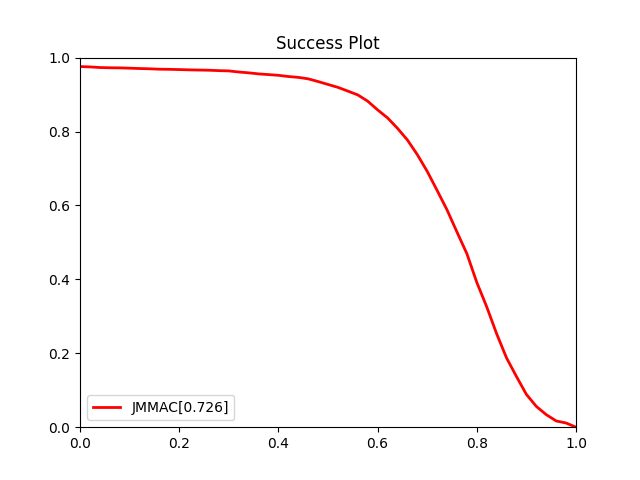
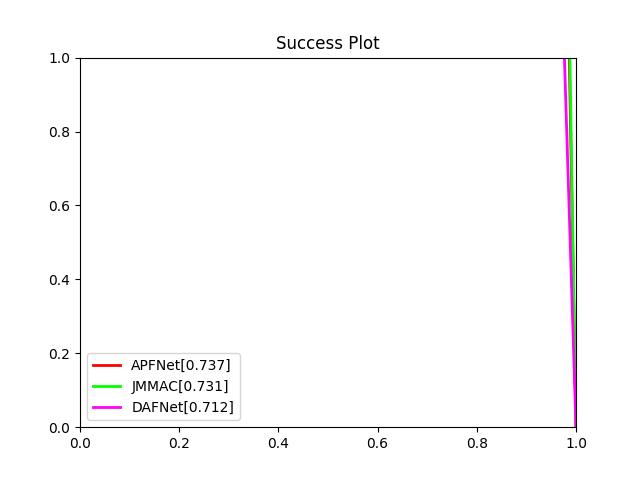
fixed error in GTOT

diff --git a/metrics/metrics.py b/metrics/metrics.py
@@ -81,6 +81,90 @@ class MSR(Metric):
 
 
 
+class MPR_GTOT(Metric):
+    """
+    NOTE
+    ---------
+    Maximum Precision Rate (MPR). PR is the percentage of frames whose output location 
+    is within the given threshold distance of ground truth. That is to say, it computes 
+    the average Euclidean distance between the center locations of the tracked target 
+    and the manually labeled ground-truth positions of all the frames. Although our 
+    alignment between two modalities is highly accurate, there still exist small alignment 
+    errors. Therefore, we use maximum precision rate (MPR) instead of PR in this paper. 
+    Specifically, for each frame, we compute the above Euclidean distance on both RGB and 
+    thermal modalities, and adopt the smaller distance to compute the precision. 
+    We set the threshold to be 20 pixels to obtain the representative MPR.
+    """
+    def __init__(self, thr=np.linspace(0, 25, 51)) -> None:
+        super().__init__()
+        self.thr = thr
+
+
+    def __call__(self, dataset:BaseRGBTDataet, result:TrackerResult, seqs:list):
+        pr=[]
+        all_frame_num = 0
+        for seq_name in seqs:
+            gt_v = dataset[seq_name]['visible']
+            gt_i = dataset[seq_name]['infrared']
+            serial = result[seq_name]
+            res_v = np.array(serial_process(CLE, serial, gt_v))
+            res_i = np.array(serial_process(CLE, serial, gt_i))
+            res = np.minimum(res_v, res_i)
+
+            pr_cell = []
+            all_frame_num+=len(res)
+            for i in self.thr:
+                pr_cell.append(np.sum(res<i))
+            pr.append(pr_cell)
+
+        pr = np.array(pr)
+        pr_val = pr[:, 10].sum()/all_frame_num
+        return pr_val, pr
+
+
+
+class MSR_GTOT(Metric):
+    """
+    NOTE
+    ---------
+    Maximum Success Rate (MSR). SR is the ratio of the number of successful frames whose 
+    overlap is larger than a threshold. Similar to MPR, we also define maximum success 
+    rate (MSR) to measure the tracker results. By varying the threshold, the MSR plot can 
+    be obtained, and we employ the area under curve of MSR plot to define the representative MSR.
+    """
+    def __init__(self, thr=np.linspace(0, 1, 21)) -> None:
+        super().__init__()
+        self.thr = thr
+
+
+    def __call__(self, dataset:BaseRGBTDataet, result:TrackerResult, seqs:list):
+    
+        sr=[]
+        all_frame_num=0
+        for seq_name in seqs:
+            gt_v = dataset[seq_name]['visible']
+            gt_i = dataset[seq_name]['infrared']
+            serial = result[seq_name]
+            res_v = np.array(serial_process(IoU, serial, gt_v))
+            res_i = np.array(serial_process(IoU, serial, gt_i))
+            res = np.maximum(res_v, res_i)
+
+            sr_cell = []
+            all_frame_num+=len(res)
+            for i in self.thr:
+                sr_cell.append(np.sum(res>i))
+            sr.append(sr_cell)
+
+        sr = np.array(sr)
+        sr_val = 0
+        a = (sr[:, 1:]*self.thr[1]).sum()
+        b = (sr[:, :-1]*self.thr[1]).sum()
+        sr_val += (a+b)/2.
+        sr_val = sr_val/all_frame_num
+        return sr_val, sr
+
+
+
 class PR(Metric):
     """
     Precision Rate.

diff --git a/utils.py b/utils.py
@@ -1,9 +1,35 @@
 # Do not edit this file.
 
 import numpy as np
+global _strict
+_strict = True
+
+
+def RGBT_start():
+    """
+    NOTE !!!
+    ---
+    对于某些数据集的原始toolkit，并没有严格考虑边界框类型转换时的宽高问题，比如GTOT。
+    导致不同数据集之间的bbox转换不统一，因此在测试GTOT时，需要先调用该函数，修正这一误差。\\
+    For the original toolkit of some datasets, it does not strictly consider the 
+    width and height when converting the bounding box type, such as GTOT.
+    This leads to inconsistent bbox conversion between different datasets, so when 
+    testing GTOT, you need to call this function first to correct this error.
+    """
+    global _strict
+    _strict = False
+
+def RGBT_end():
+    """
+    与RGBT_start搭配使用，当你只测试GTOT时，可以不调用。
+    """
+    global _strict
+    _strict = True
+
 
 def load_text(path, dtype=np.float32):
     return load_text_numpy(path, delimiter=[',', ' ', '\t'], dtype=dtype)
+
 
 def load_text_numpy(path, delimiter=' ', dtype=np.float32):
     if isinstance(delimiter, (tuple, list)):
@@ -23,20 +49,41 @@ def load_text_numpy(path, delimiter=' ', dtype=np.float32):
 def ltwh_2_ltrb(rect):
     return [rect[0], rect[1], rect[2]+rect[0]-1, rect[3]+rect[1]-1]
 
+
 def ltrb_2_ltwh(rect):
-    return [rect[0], rect[1], rect[2]-rect[0]+1, rect[3]-rect[1]+1]
+    if _strict:
+        return [rect[0], rect[1], rect[2]-rect[0]+1, rect[3]-rect[1]+1]
+    else:
+        return [rect[0], rect[1], rect[2]-rect[0], rect[3]-rect[1]]
+
 
 def xywh_2_ltrb(rect):
     """
     (cx, cy, w, h) -> (left, top, right, bottom)
     """
-    return [rect[0]-rect[2]/2, rect[1]-rect[3]/2, rect[0]+rect[2]/2, rect[1]+rect[3]/2]
+    delta_w = (rect[2]-1)/2.
+    delta_h = (rect[3]-1)/2.
+    return [rect[0]-delta_w, rect[1]-delta_h, rect[0]+delta_w, rect[1]+delta_h]
+
+
+def xywh_2_ltwh(rect):
+    """
+    (cx, cy, w, h) -> (left, top, width, height)
+    """
+    delta_w = (rect[2]-1)/2.
+    delta_h = (rect[3]-1)/2.
+    return [rect[0]-delta_w, rect[1]-delta_h, rect[2], rect[3]]
+
 
 def corner_2_ltrb(rect):
     return [rect[0], rect[1], rect[-2-2], rect[-1-2]]
 
+
 def corner_2_ltwh(rect):
-    return [rect[0], rect[1], rect[2]-rect[0]+1, rect[5]-rect[1]+1]
+    if _strict:
+        return [rect[0], rect[1], rect[2]-rect[0]+1, rect[5]-rect[1]+1]
+    else:
+        return [rect[0], rect[1], rect[2]-rect[0], rect[5]-rect[1]]
 
 
 def bbox_type_trans(bbox_type_src, bbox_type_new):
@@ -75,8 +122,12 @@ def CLE(rect1, rect2, need_normalize=False):
     Returns:
         center location error
     """
-    cp1 = [(rect1[2]-1)/2.+rect1[0], (rect1[3]-1)/2.+rect1[1]]
-    cp2 = [(rect2[2]-1)/2.+rect2[0], (rect2[3]-1)/2.+rect2[1]]
+    if _strict:
+        cp1 = [(rect1[2]-1)/2.+rect1[0], (rect1[3]-1)/2.+rect1[1]]
+        cp2 = [(rect2[2]-1)/2.+rect2[0], (rect2[3]-1)/2.+rect2[1]]
+    else:
+        cp1 = [rect1[2]/2.+rect1[0], rect1[3]/2.+rect1[1]]
+        cp2 = [rect2[2]/2.+rect2[0], rect2[3]/2.+rect2[1]]
     if need_normalize:
         cp1 = normalize(cp1[0], cp1[1], rect2[2], rect2[3])
         cp2 = normalize(cp2[0], cp2[1], rect2[2], rect2[3])

diff --git a/eval_gtot.py b/eval_gtot.py
@@ -1,31 +1,44 @@
 from dataset import GTOT
+from utils import RGBT_start,RGBT_end
 
+RGBT_start()
 gtot = GTOT()
 
 # Register your tracker
 gtot(
-    tracker_name="JMMAC",       # Result in paper: 90.1, 73.2
+    tracker_name="JMMAC",       # Result in paper: 90.2, 73.2
     result_path="./result/GTOT/JMMAC", 
     bbox_type="ltwh",
     prefix="JMMAC_")
 
 gtot(
-    tracker_name="APFNet",       # Result in paper: 90.5, 73.7
+    tracker_name="APFNet",      # Result in paper: 90.5, 73.7
     result_path="./result/GTOT/APFNet", 
     bbox_type="corner",
     prefix="")
+
+gtot(
+    tracker_name="DAFNet",      # Result in paper: 89.1, 71.2
+    result_path="./result/GTOT/DAFNet", 
+    bbox_type="corner",
+    prefix="DAFNet-234_")
 
 # Evaluate multiple trackers
 pr_dict = gtot.MPR()
 print(pr_dict["JMMAC"][0])
 print(pr_dict["APFNet"][0])
+print(pr_dict["DAFNet"][0])
 
 # Evaluate single tracker
 jmmac_sr,_ = gtot.MSR("JMMAC")
-print("JMMAC SR:\t", jmmac_sr)
+print("JMMAC MSR:\t", jmmac_sr)
 apf_sr,_ = gtot.MSR("APFNet")
-print("APFNet SR:\t", apf_sr)
+print("APFNet MSR:\t", apf_sr)
+daf_sr,_ = gtot.MSR("DAFNet")
+print("DAFNet MSR:\t", daf_sr)
 
 # Draw a curve plot
 gtot.draw_plot(metric_fun=gtot.MPR)
 gtot.draw_plot(metric_fun=gtot.MSR)
+
+RGBT_end()

diff --git a/dataset/basedataset.py b/dataset/basedataset.py
@@ -17,7 +17,7 @@ def initial_gt_file(gt_path:str, seqs:list, v_name:str, i_name:str, bbox_trans):
 def initial_result_file(path:str, seqs:list, bbox_trans, prefix=''):
     res = {}
     for seq_name in seqs:
-        serial = load_text(os.path.join(path, prefix+seq_name+'.txt'))
+        serial = load_text(os.path.join(path, prefix+seq_name+'.txt')).round(0)
         res[seq_name] = serial_process(bbox_trans, serial)
     return res
 
@@ -109,7 +109,7 @@ class BaseRGBTDataet:
         raise ImportError
 
 
-    def draw_attributeRadar(self, metric_fun, filename):
+    def draw_attributeRadar(self, metric_fun, filename, **argdict):
         """
         Draw a radar chart with all challenge attributes.
         """
@@ -119,7 +119,7 @@ class BaseRGBTDataet:
             for i,(k,v) in enumerate(dict.items()):
                 result[i][1].append(v[0])
 
-        draw_radar(result=result, attrs=self.get_attr_list(), fn=filename)
+        draw_radar(result=result, attrs=self.get_attr_list(), fn=filename, **argdict)
 
 
     def draw_plot(self, axis, metric_fun, filename, y_max:float, y_min:float, title=None, 

diff --git a/dataset/gtot_dataset.py b/dataset/gtot_dataset.py
@@ -2,7 +2,7 @@
 from dataset.basedataset import BaseRGBTDataet
 from utils import *
 import os
-from metrics import MPR,MSR
+from metrics import MPR_GTOT,MSR_GTOT
 
 class GTOT(BaseRGBTDataet):
     """
@@ -19,8 +19,8 @@ class GTOT(BaseRGBTDataet):
         # super().__init__(gt_path=gt_path, seqs=seqs, bbox_type='ltwh', v_name='init.txt', i_name='init.txt')
 
         self.name = 'GTOT'
-        self.MPR_fun = MPR(thr=np.linspace(0, 25, 51))
-        self.MSR_fun = MSR(thr=np.linspace(0, 1, 51))
+        self.MPR_fun = MPR_GTOT()
+        self.MSR_fun = MSR_GTOT()
 
         # Challenge attributes
         self._attr_list = (None)
@@ -53,8 +53,7 @@ class GTOT(BaseRGBTDataet):
         else:
             res = {}
             for k,v in self.trackers.items():
-                res[k] = list(self.MPR_fun(self, v, seqs))
-                res[k][0] = res[k][1].mean(axis=0)[10]
+                res[k] = self.MPR_fun(self, v, seqs)
             return res
 
 

diff --git a/dataset/rgbt234_dataset.py b/dataset/rgbt234_dataset.py
@@ -1,5 +1,5 @@
 
-from dataset.basedataset import BaseRGBTDataet
+from dataset.basedataset import BaseRGBTDataet, TrackerResult
 from utils import *
 import os
 from metrics import MPR,MSR
@@ -33,6 +33,12 @@ class RGBT234(BaseRGBTDataet):
         self.TC = self.choose_serial_by_att("TC")
         self.PO = self.choose_serial_by_att("PO")
         self.SC = self.choose_serial_by_att("SC")
+
+    def __call__(self, tracker_name, result_path: str, seqs=None, prefix='', bbox_type='ltwh') -> TrackerResult:
+        RGBT_start()
+        res = super().__call__(tracker_name, result_path, seqs, prefix, bbox_type)
+        RGBT_end()
+        return res
 
     def get_attr_list(self):
         return self._attr_list

diff --git a/dataset/rgbt210_dataset.py b/dataset/rgbt210_dataset.py
@@ -35,6 +35,12 @@ class RGBT210(BaseRGBTDataet):
         self.PO = self.choose_serial_by_att("PO")
         self.SC = self.choose_serial_by_att("SC")
 
+    def __call__(self, tracker_name, result_path: str, seqs=None, prefix='', bbox_type='ltwh'):
+        RGBT_start()
+        res = super().__call__(tracker_name, result_path, seqs, prefix, bbox_type)
+        RGBT_end()
+        return res
+
     def get_attr_list(self):
         return self._attr_list
 

diff --git a/metrics/__init__.py b/metrics/__init__.py
@@ -1,1 +1,1 @@
-from .metrics import MPR,MSR,SR,PR,NPR,PR_LasHeR,SR_LasHeR
+from .metrics import MPR,MSR,SR,PR,NPR,PR_LasHeR,SR_LasHeR,MPR_GTOT,MSR_GTOT

diff --git a/README.md b/README.md
@@ -6,11 +6,14 @@ This project was created for the convenience of RGBT Tracking researchers. By ut
 - Use the same tool to evaluate your tracking results on different RGBT datasets.
 - The test results of each attribute are available and a radar chart is obtained. You can also test an attribute individually.
 - Precision plot and other plot are available.
-- Supports GTOT, RGBT210, RGBT234, LasHeR datasets
+- Supports GTOT, RGBT210, RGBT234, LasHeR datasets.
+
+> 经测试，由于计算精度的差异，部分情况下会与原始工具箱产生`0.1%`的误差。**所有数据集都经过论文中给定结果的校准。** <br>
+> It was tested to produce `0.1%` error from the original toolbox in some cases due to differences in computational accuracy. **All datasets are calibrated for the given results in the paper.**
 
 # Evaluate and Visualize
 
-We provide the ground truth file for RGBT234, so you can directly call it.
+We provide the ground truth file, so you can directly call it.
 
 ```python
 from dataset import RGBT234
@@ -55,3 +58,11 @@ Any operation requires only one line of code.
 ![image0](RGBT234_MSR_radar.png)
 
 ![image1](RGBT234_MSR_plot.png)
+
+
+# 其他
+
+对于最早的GTOT，后来的RGBT210,234，以及最新的LasHeR，在各种指标上计算方式有比较多的不同，导致大概2个点的误差。
+经过仔细比对，发现这些差异并不会导致相对性能的变化。为了与历史跟踪器进行公平比较，我们对于这些差异做了兼容。
+
+这使得在测试GTOT时，需要在测试前额外调用`RGBT_start()`。
